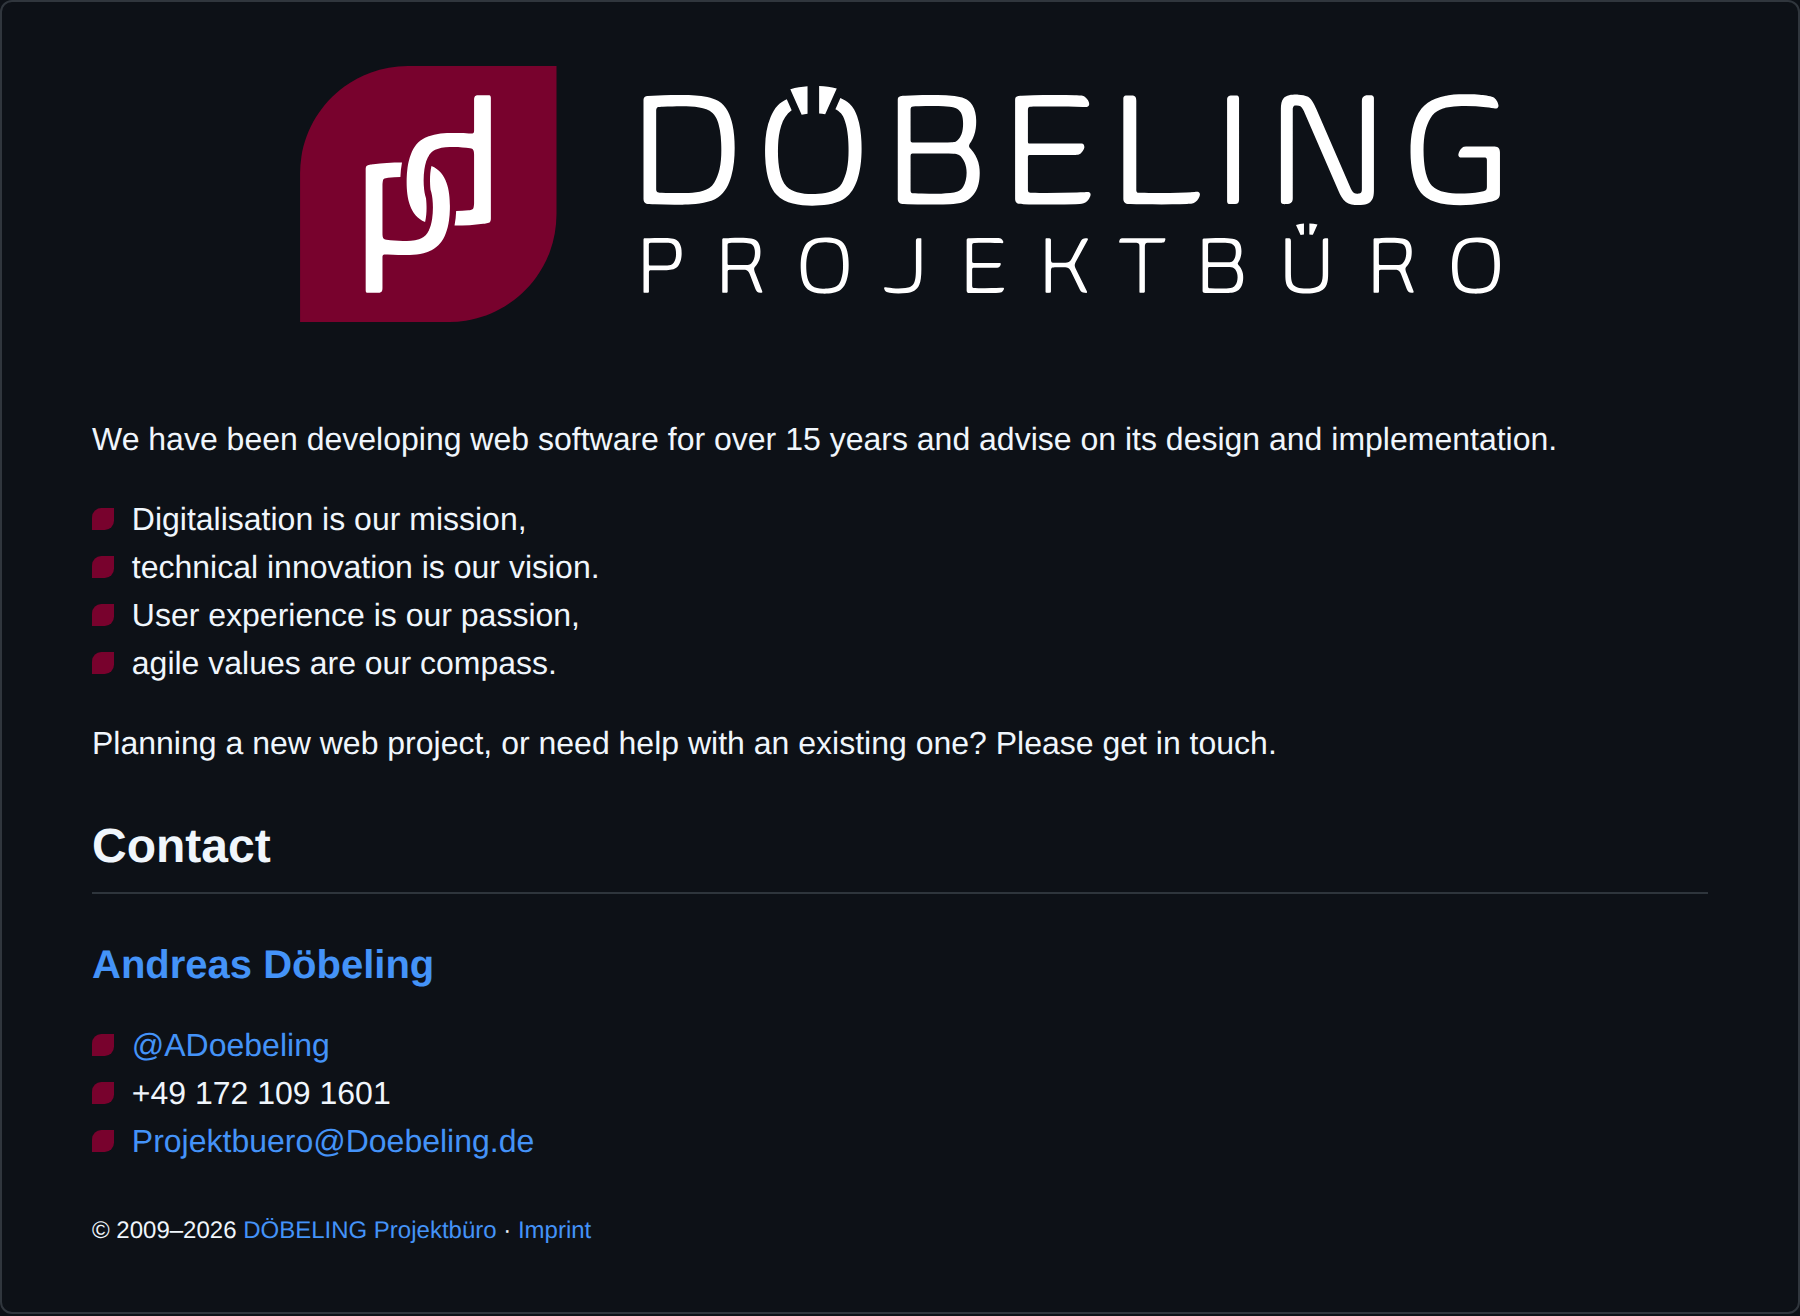
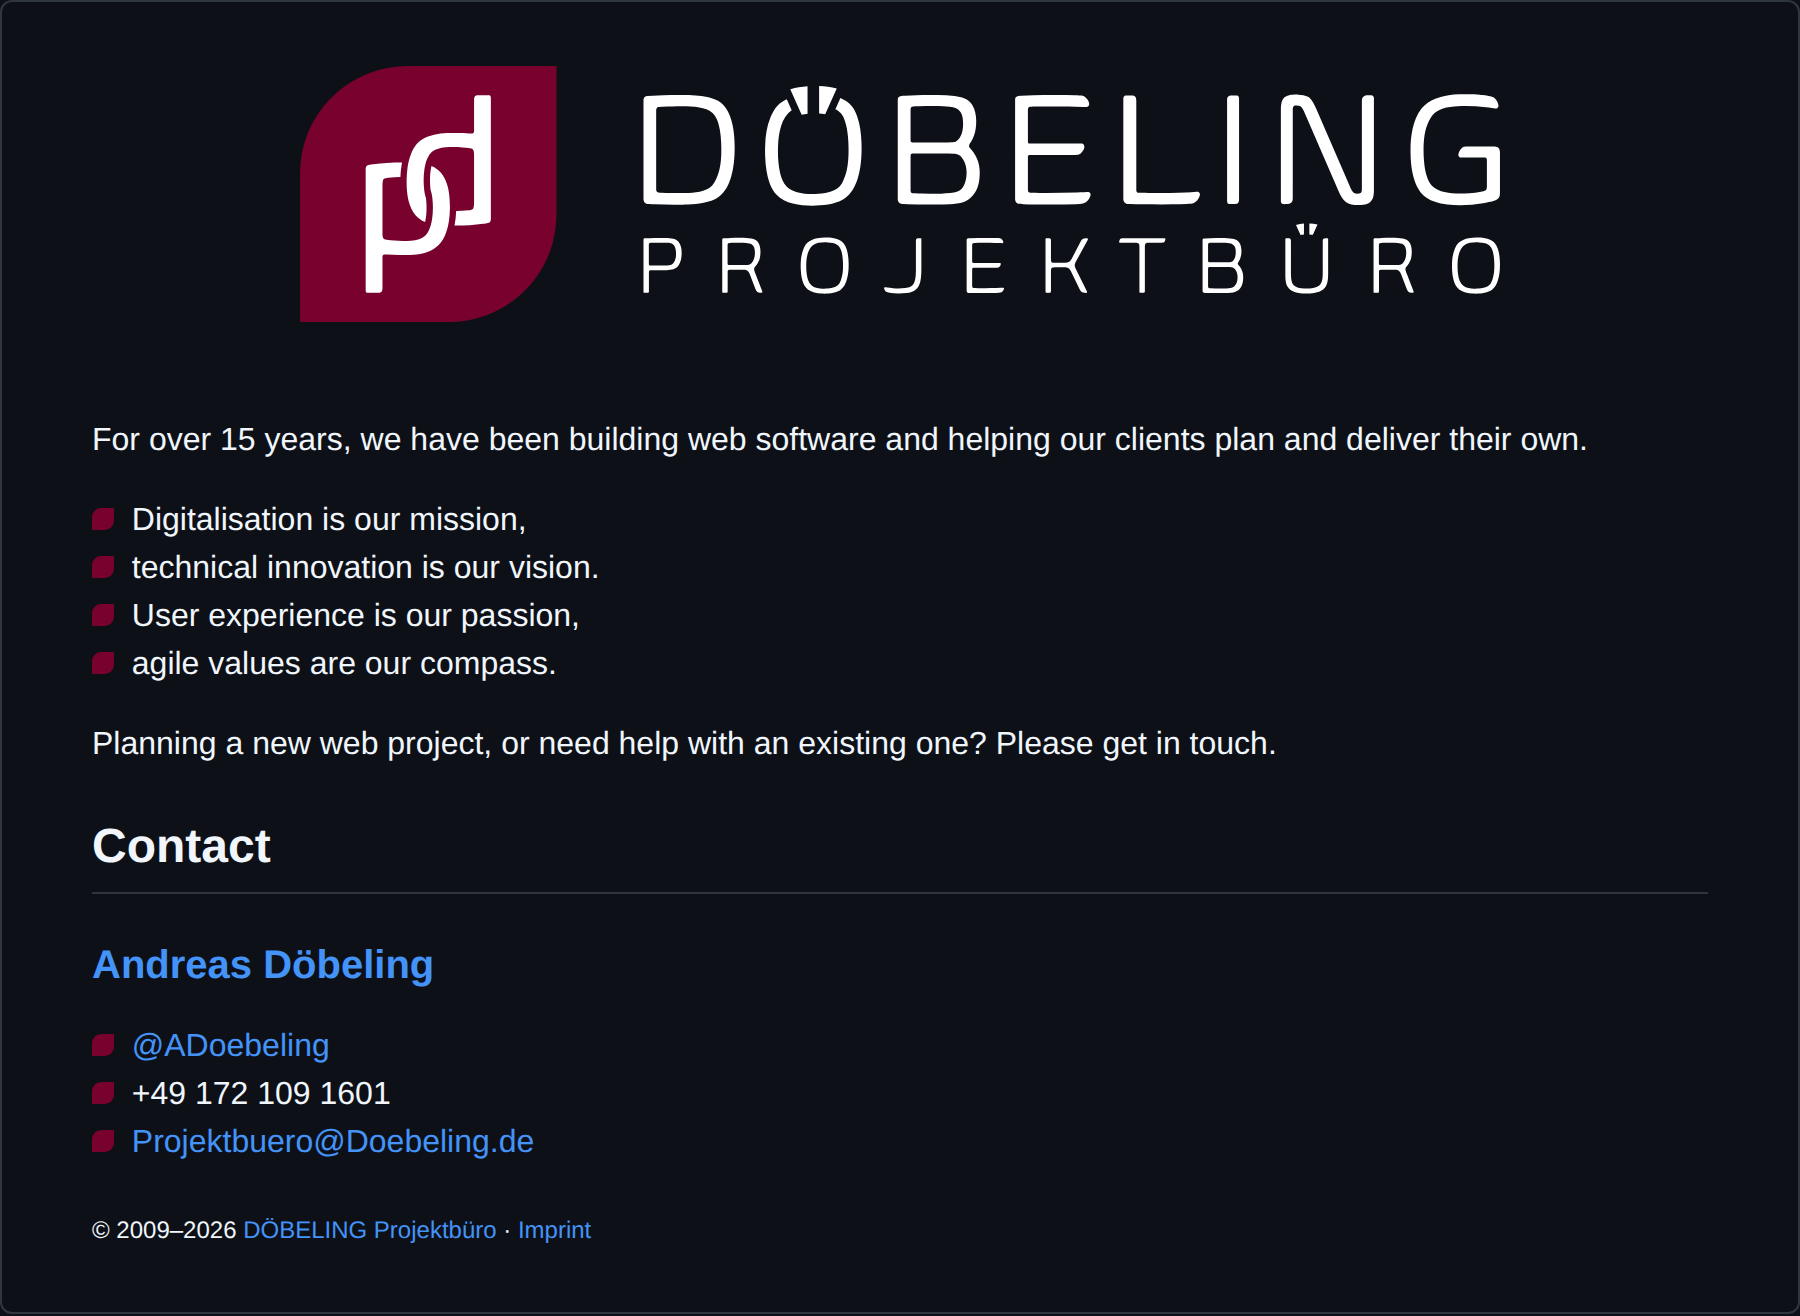
Profile README: rephrase the opening sentence

Changed region(s): [[0.0311, 0.3116, 0.8711, 0.3427]]

diff --git a/profile/README.md b/profile/README.md
@@ -9,7 +9,7 @@
 
 <br>
 
-We have been developing web software for over 15 years and advise on its design and implementation.
+For over 15 years, we have been building web software and helping our clients plan and deliver their own.
 
 <img src="https://raw.githubusercontent.com/DOEBELING/.github/main/assets/bullet.svg" width="11" alt="">&nbsp;&nbsp;Digitalisation is our mission,<br>
 <img src="https://raw.githubusercontent.com/DOEBELING/.github/main/assets/bullet.svg" width="11" alt="">&nbsp;&nbsp;technical innovation is our vision.<br>
